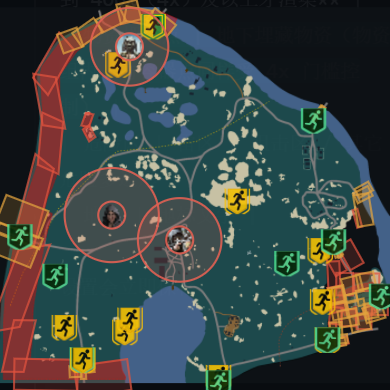
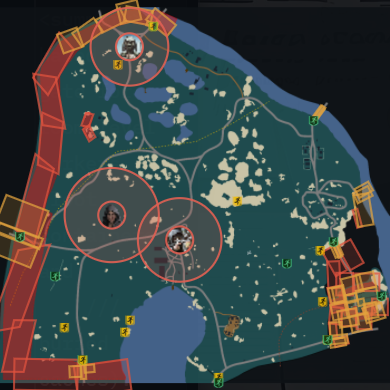
悬浮窗（Compact）地标图标按画布尺寸缩放
悬浮窗把整张地图塞进 390px 小窗，图标却是按主窗口 ~700px 地图区调的，
概览时撤离点/转移点比建筑还大。新增 CompactShrink：Compact 画布上所有
MarkerIcon 尺寸乘以 min(w,h)/700（0.30–1.00），主窗口不受影响；
深放大仍走 zoom^0.45 曲线，只是缩小了概览下的占位。

实测森林 390px 悬浮窗：图标明显收小，地图结构可读。
三套自检全绿；dist 重出为 NativeAOT（263 MB，仅 3 个原生 dll）。

diff --git a/TarkovAtlas/Controls/MapCanvas.cs b/TarkovAtlas/Controls/MapCanvas.cs
@@ -578,6 +578,17 @@ public sealed class MapCanvas : Control
     public const double LootZoomGate = 4.0;
 
     /// <summary>
+    /// The overlay (Compact) squeezes the whole map into a small window, so icon
+    /// sizes tuned against the main window's ~700 px map area dwarf the
+    /// buildings there. Every marker class multiplies its side length by the
+    /// canvas short side relative to that reference. Deep zoom still grows the
+    /// icons through the zoom curve; this only fixes the overview footprint.
+    /// </summary>
+    private double CompactShrink =>
+        !Compact ? 1.0
+                 : Math.Clamp(Math.Min(Bounds.Width, Bounds.Height) / 700.0, 0.30, 1.0);
+
+    /// <summary>
     /// Icon side length for a marker class. Pure sqrt(zoom) scaling only covers
     /// ~1:1.6 across the whole 0.35x–32x zoom range, so the old clamps kept
     /// icons near their full size even when the map itself shrank to a postage
@@ -587,7 +598,8 @@ public sealed class MapCanvas : Control
     /// same readable maximum as before.
     /// </summary>
     private double MarkerIcon(double baseSize, double maxSize, double minSize = 9)
-        => Math.Clamp(baseSize * Math.Pow(_zoom, 0.45), minSize, maxSize);
+        => Math.Clamp(baseSize * Math.Pow(_zoom, 0.45) * CompactShrink,
+                      minSize * CompactShrink, maxSize);
 
     private bool ExtractVisible(ExtractPoint e) => Options.ExtractFilter switch
     {

diff --git a/AGENTS.md b/AGENTS.md
@@ -119,6 +119,7 @@ docs/                           界面截图（README 引用）
   - 任务标记在 `ShowQuestMarkers=false` 时直接跳过生成与绘制。
 - **房间级标记统一走 `MapCanvas.LootZoomGate = 4.0`**：容器点与物资埋藏点只有放大到 400% 及以上才渲染（图例里也都归在「物资」组）。加新类别时别再各写一套门槛。
 - **图标尺寸用 `MarkerIcon(base, max, min)`**：纯 `sqrt(zoom)` 在整个 0.35x–32x 区间只覆盖约 1:1.6 的变化，加上较宽的下限后，概览缩放下撤离点/转移点/BTR 会比建筑还大。该helper按 `zoom^0.45` 缩放并保留原上限，概览时明显缩小、贴近时回到原来的大小。
+- **悬浮窗图标再乘 `CompactShrink`**：Compact 画布把整张图塞进 ~390px 小窗，按主窗口地图区（~700px）调好的图标仍然偏大；helper 内部已按 `min(w,h)/700` 自动缩小（0.30–1.00），主窗口不受影响。新增标记类别直接复用 `MarkerIcon`。
 - 楼层图与底图共用同一目标矩形，运行时直接叠加，不做单独缩放。
 
 ### 4.3 危险区
